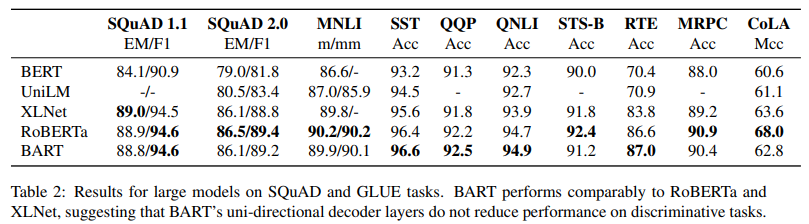
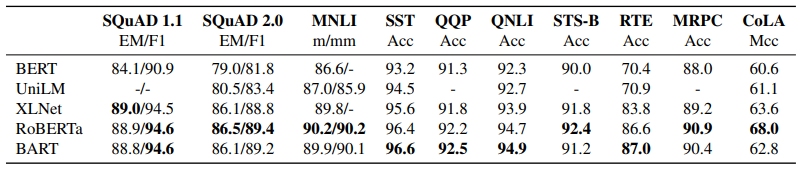
Study BART

diff --git a/llm/papers/BART.md b/llm/papers/BART.md
@@ -181,7 +181,7 @@
 
 - BART는 이전 연구 보다 다양한 Noising 방식을 사전 학습에 활용할 수 있음
 
-- 기본 모델(6개의 Encoder와 Decoder Layer, 768개의 Hidden)을 사용하여 다양한 방식을 비교함
+- 기본 모델(6-layer Encoder와 6-layer Decoder, 768개의 Hidden)을 사용하여 다양한 방식을 비교함
     - 5장에서 다룰 대규모 실험의 일부 작업을 기준으로 평가됨
 
 #### 4.1 Comparision Objectives
@@ -232,17 +232,6 @@
     - (2) Decoder에 Target의 접두사로 원천을 추가하며 Sequence의 Target 부분만 Loss로 계산하는 작업
         > - Decoder 입력으로 [원천 + Target] Sequence가 입력되며, Loss는 Target 부분만 계산함
 
-**[Table 1] 사전 학습 방식 비교**
-
-![Table 1](img/bart-tbl-01.png)
-
-```
-- 모든 모델은 유사한 크기이며, 서적과 Wikipedia 데이터를 조합하여 100만 Step 학습됨
-- 아래 두 블록의 항목은 동일한 코드 기반으로 동일한 데이터로 학습되었으며, 동일한 절차로 Fine-tuning 되었음
-- 두번째 블록의 항목은 이전 연구에서 제안된 사전 학습 방식에 영감을 받았지만, 평가 목표에 초점을 맞추어 단순화됨
-- 성능은 작업별로 상당한 차이를 보이지만, Text Infilling을 적용한 BART 모델이 가장 일관성있게 우수한 성능을 보여줌
-```
-
 #### 4.2 Tasks
 
 ##### SQuAD
@@ -274,6 +263,18 @@
 - 뉴스 요약 데이터셋으로, 원문과 밀접하게 연관되어 요약됨
 
 #### 4.3 Results
+
+###### [Table 1] 사전 학습 방식 비교
+
+![Table 1](img/bart-tbl-01.png)
+
+
+```
+- 모든 모델은 유사한 크기이며, 서적과 Wikipedia 데이터를 조합하여 100만 Step 학습됨
+- 아래 두 블록의 항목은 동일한 코드 기반으로 동일한 데이터로 학습되었으며, 동일한 절차로 Fine-tuning 되었음
+- 두번째 블록의 항목은 이전 연구에서 제안된 사전 학습 방식에 영감을 받았지만, 평가 목표에 초점을 맞추어 단순화됨
+- 성능은 작업별로 상당한 차이를 보이지만, Text Infilling을 적용한 BART 모델이 가장 일관성있게 우수한 성능을 보여줌
+```
 
 **사전 학습 방식의 성능은 작업별로 상당히 상이함**
 - 사전 학습 방식의 유효성은 Downstream 작업에 따라 크게 달라짐
@@ -311,9 +312,48 @@
 
 ### 5. Large-scale Pre-training Experiments
 
-**[Table 2]**
+- 최근 연구에서는 큰 batch size와 방대한 말뭉치(Corpus)를 사전 학습시켰을 때 downstream 성능이 극적으로 향상됨을 보여줌
+- 이에 따라 BART 성능을 정확하게 평가하고, downstream 작업에 실질적으로 유용한 모델로 만들기 위해 RoBERTa와 동일한 규모로 BART를 학습시킴
+
+#### 5.1 Experimental Setup
+
+- BART는 12-layer encoder와 12-layer decoder, hidden size 1,024개로 구성된 대규모 모델을 학습함
+- RoBERTa와 동일하게 batch size 8,000개, 총 50만 step으로 사전 학습을 수행함
+- 문서는 GPT-2 tokenizer를 사용해 문서 단위로 쌍을 이루어 encoding됨
+- 4장의 결과를 바탕으로 <u>**text infilling**</u>과 <u>**sentence permutation**</u> 방식의 조합을 사용함
+    - 각 문서의 약 30% token을 masking하고, 모든 문장을 무작위로 섞음
+    - sentence permutation 방식이 CNN/DM 요약 작업에서만 추가 이점을 보였지만, 이 방식으로 대규모 사전 학습 모델이 더 잘 학습될 수 있다고 가정함
+- 모델이 데이터에 더 잘 적합되도록 학습 후반 10% step은 dropout을 사용하지 않음
+- 사전 학습 데이터는 RoBERTa와 동일하게 뉴스, 서적, 스토리, 웹 등 총 160GB 규모를 사용함
+
+#### 5.2 Discriminative Tasks
+
+###### [Table 2] SQuAD 및 GLUE 작업에 대한 대규모 모델 성능 비교
 
 ![Table 2](img/bart-tbl-02.png)
+
+```
+BART는 판별 작업에서 단방향 decoder layer 성능이 저하되지 않았으며, 
+RoBERTa와 XLNet과 비슷한 성능임
+```
+
+- 동일한 자원으로 사전 학습된 RoBERTa가 가장 직접적인 비교 기준이지만, 사전 학습 방식에는 차이가 있음
+- 전반적으로 BART는 유사한 수준의 성능을 보였으며, 대부분의 작업에서 모델 간 성능 차이는 미미함
+    - 이는 생성 작업을 위한 BART가 분류(판별) 성능도 경쟁력 있음을 시사함
+
+#### 5.3 Generation Tasks
+
+- BART는 입력 text로부터 출력 text를 생성하는 표준 seq2seq 모델로 fine-tuning 되었음
+- Fine-tuning 시에는 label smoothing이 적용된 cross-entropy loss를 사용하였으며, smoothing parameter는 0.1로 설정함
+- Text 생성 시에는 beam size를 5로 설정하고, beam search 과정에서 중복된 trigram을 제거함
+    > - 매 token 생성 마다 확률이 높은 5개의 문장을 후보로 두고, 마지막에 가장 확률이 높은 문장을 고름
+    > - 문장의 질을 높이기 위해 3개 연속 반복되는 token이 포함된 문장은 제거함
+
+
+- 평가 데이터셋은 최소/최대 길이 및 길이 보정 계수(Length Penalty)를 적용함
+    > - 긴 문장은 token을 더 많이 생성하므로 전체 확률이 작아져 모델이 짧은 문장을 더 선호할 수 있음
+    > - 이런 상황을 보정해주기 위해 text 길이 관련 parameter를 설정함
+
 
 ---
 
@@ -390,6 +430,7 @@
 # Reference
 
 - [논문 원본](https://arxiv.org/pdf/1910.13461)
+- [ACL 발표 논문 (2020)](https://aclanthology.org/2020.acl-main.703/)
 - [논문 요약](https://velog.io/@tobigs-nlp/BART-DeNoising-Sequence-to-Sequence-Pre-training-for-Natural-Language-Generation-Translation-and-Comprehension)
 - [논문 번역](https://velog.io/@dutch-tulip/BART)
 - [GeLU](https://jik9210.tistory.com/14)
@@ -720,12 +761,6 @@ We find the former works better for BART models, and the latter for other models
 
 To most directly compare our models on their ability to model their fine-tuning objective (the log likelihood of the human text), 
 we report perplexity in Table 1.
-
-Table 1: Comparison of pre-training objectives.
-All models are of comparable size and are trained for 1M steps on a combination of books and Wikipedia data. 
-Entries in the bottom two blocks are trained on identical data using the same code-base, and fine-tuned with the same procedures. 
-Entries in the second block are inspired by pre-training objectives proposed in previous work, but have been simplified to focus on evaluation objectives (see §4.1). 
-Performance varies considerably across tasks, but the BART models with text infilling demonstrate the most consistently strong performance.
 ```
 
 #### 4.2 Tasks
@@ -763,6 +798,12 @@ Summaries here are typically closely related to source sentences.
 #### 4.3 Results
 
 ```
+Table 1: Comparison of pre-training objectives.
+All models are of comparable size and are trained for 1M steps on a combination of books and Wikipedia data. 
+Entries in the bottom two blocks are trained on identical data using the same code-base, and fine-tuned with the same procedures. 
+Entries in the second block are inspired by pre-training objectives proposed in previous work, but have been simplified to focus on evaluation objectives (see §4.1). 
+Performance varies considerably across tasks, but the BART models with text infilling demonstrate the most consistently strong performance.
+
 Results are shown in Table 1. 
 
 Several trends are clear:
@@ -807,8 +848,7 @@ With the exception of ELI5, BART models using text-infilling perform well on all
 Recent work has shown that downstream performance can dramatically improve 
 when pre-training is scaled to large batch sizes (Yang et al., 2019; Liu et al., 2019) and corpora. 
 
-To test how well BART performs in this regime, and to create a useful model for downstream
-tasks, 
+To test how well BART performs in this regime, and to create a useful model for downstream tasks, 
 we trained BART using the same scale as the RoBERTa model.
 ```
 
@@ -838,6 +878,9 @@ We use the same pre-training data as Liu et al. (2019), consisting of 160Gb of n
 #### 5.2 Discriminative Tasks
 
 ```
+Table 2: Results for large models on SQuAD and GLUE tasks. 
+BART performs comparably to RoBERTa and XLNet, suggesting that BART’s uni-directional decoder layers do not reduce performance on discriminative tasks.
+
 Table 2 compares the performance of BART with several recent approaches on the well-studied SQuAD and GLUE tasks (Warstadt et al., 2018; Socher et al., 2013; Dolan & Brockett, 2005; Agirre et al., 2007; Williams et al., 2018; Dagan et al., 2006; Levesque et al., 2011).
 
 The most directly comparable baseline is RoBERTa, which was pre-trained with the same resources, but a different objective. 
@@ -845,5 +888,17 @@ The most directly comparable baseline is RoBERTa, which was pre-trained with the
 Overall, BART performs similarly, with only small differences between the models on most tasks. 
 
 suggesting that BART’s improvements on generation tasks do not come at the expense of classification performance.
+```
 
+#### 5.3 Generation Tasks
+
+```
+We also experiment with several text generation tasks.
+
+BART is fine-tuned as a standard sequence-to-sequence model from the input to the output text. 
+
+During finetuning we use a label smoothed cross entropy loss (Pereyra et al., 2017), with the smoothing parameter set to 0.1. 
+
+During generation, we set beam size as 5, remove duplicated trigrams in beam search, 
+and tuned the model with min-len, max-len, length penalty on the validation set (Fan et al., 2017).
 ```
